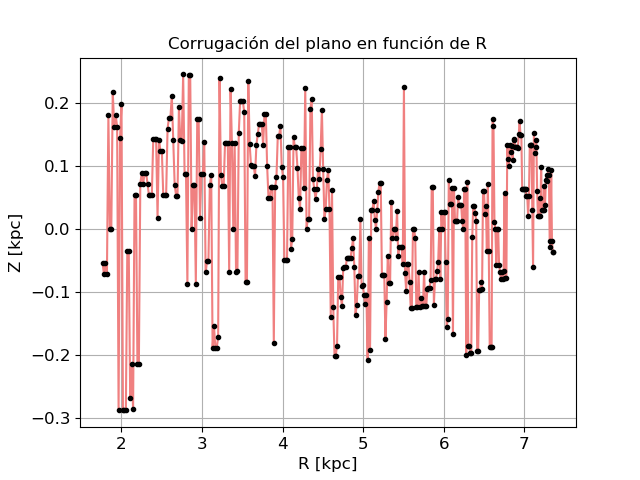
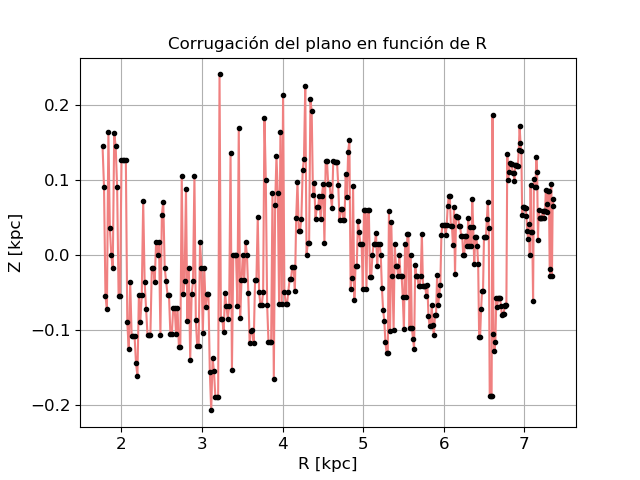
corrige cálculo rms

diff --git a/Tarea 2/códigoT2.py b/Tarea 2/códigoT2.py
@@ -22,32 +22,6 @@ velocidad=values(header,1)
 longitud=values(header,2)
 latitud=values(header,3)
 
-columns = ['longitud l', 'latitud b', 'v_tan']
-tabla = pd.DataFrame(columns=columns)
-
-for i_b in range(len(latitud)):
-    for i_l in range(len(longitud)):
-        T = data[i_b][i_l][:]
-        r = sigma_clip(T, sigma_lower=3, sigma_upper=3)
-        rms = np.sqrt(np.mean(r**2))
-        rmask = r.mask
-        if len(velocidad[rmask])==0:
-            v_tan = np.nan
-        else:
-            v_tan = velocidad[rmask][0]
-        
-        tabla = tabla.append({'longitud l':longitud[i_l], 'latitud b':latitud[i_b], 'v_tan':v_tan}, ignore_index=True) 
-
-for lat in latitud:
-    table_b_fix = tabla.loc[tabla['latitud b'] == lat]
-    min_vel = table_b_fix['v_tan'].min()
-    # print(lat, min_vel)
-
-for lon in longitud:
-    table_b_fix = tabla.loc[tabla['longitud l'] == lon]
-    min_vel = table_b_fix['v_tan'].min()
-    # print(lon, min_vel)
-
 # Se crea una funcion que para una longitud(l) fija, se recorre latitud(b) y se calcula el rms de las
 # velocidades
 # Esta misma funcion recorre el cubo de las velocidades asociadas a l y b, hasta que se llega a una
@@ -56,8 +30,9 @@ for lon in longitud:
 def fmin(l,latitud,vs):
     #recorre latitud
     for q in range(33):
-        T1=data[q][l][:]
-        rms=np.sqrt(np.mean(T1**2))   #calcula rms
+        T = data[q][l][:]
+        r = sigma_clip(T, sigma=5)
+        rms = np.sqrt(np.mean(r**2))
         #recorre velocidad
         for w in range(306):
             if data[q][l][w]>=5*rms:  #buscamos que no sea ruido
@@ -89,7 +64,7 @@ for i in range(385):
             b1=latitud[j+1]
     vmin[i]=v1
     bvmin[i]=b1
-    R[i]=np.abs(R0*np.sin(longitud[i]*np.pi/180.)) #R0 sin(l)  
+    R[i]=np.abs(R0*np.sin(longitud[i]*np.pi/180.)) #R0 sin(l)
     Z[i]= b1*np.pi/180*R0*np.cos(longitud[i]*np.pi/180.)
     
 
@@ -109,7 +84,7 @@ for i in range(385):
     # 1 kpc = 3.08567758128E+16 km
     # 1 km = 3.2408e-17 kpc
     # 220 km/s = 220
-    omegaR[i] = (vR[i]*3.2408e-17)/R[i] + omegasol
+    omegaR[i] = (vmin[i]*3.2408e-17)/R[i] + omegasol
 '''
 CURVA DE ROTACIÓN
 '''
@@ -119,7 +94,7 @@ plt.grid
 plt.title("Curva de Rotación")
 plt.xlabel("R [kpc]")
 plt.ylabel(r"V$_{tan}$ [km/s]")
-# plt.savefig('curva.png')
+plt.savefig('curva.png')
 plt.show()
 
 plt.plot(R, omegaR, 'lightcoral')
@@ -162,7 +137,7 @@ def disco_uniforme_masapuntual(R, s, M0):
 G = 4.302e-6   # kpc/Msun*(km**2/s**2)
 
 
-m1,covm1 = curve_fit(masa_puntual, R, vR)
+m1,covm1 = curve_fit(masa_puntual, R, vR, bounds=(0,[np.inf]))
 m2,covm2 = curve_fit(esfera_uniforme, R, vR)
 m3,covm3 = curve_fit(esfera_uniforme_masapuntual, R, vR)
 m4,covm4 = curve_fit(disco_uniforme, R, vR)
@@ -216,7 +191,7 @@ ax3.legend()
 ax4.legend()
 ax5.legend()
 plt.subplots_adjust(wspace=0, hspace=0)
-# plt.savefig('ajuste.png')
+plt.savefig('ajuste.png')
 plt.show()
 
 '''
@@ -229,7 +204,6 @@ plt.title("Corrugación del plano en función de R")
 plt.xlabel("R [kpc]", fontsize='12')
 plt.ylabel("Z [kpc]", fontsize='12')
 plt.tick_params(labelsize='12')
-# plt.savefig('corrugacion.png')
+plt.savefig('corrugacion.png')
 plt.show()
 
-# %%
